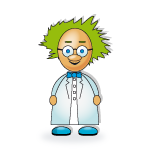
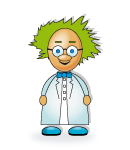
Finalized illustrations. Linked breadcrumbs.

Changed region(s): [[0.2154, 0.08, 0.8, 0.9067], [0.4308, 0.1867, 0.4923, 0.2133]]

diff --git a/public/stylesheets/echologic.css b/public/stylesheets/echologic.css
@@ -377,26 +377,23 @@ strong {
 
 /* Illustrations */
 .illustrationHolder {
+  clear:        both;
   margin:       25px auto 0px;
   height:       160px;
   padding:      0 0 5px;
-}
-
-.illustrationHolder ul {
-  padding:      0px;
-}
-
-.illustrationHolder li {
-  float:        left;
   text-align:   center;
-  list-style-type: none;
 }
 
-.illustrationHolder a {
-  border:       none;
+.illustration {
+  padding:      0px;
+  float:        left;
 }
 
-.illustrationHolder h2 {
+.threeItems .illustration {
+  padding:      0 15px;
+}
+
+.illustration h2 {
   font-size:    1.4em;
   font-weight:  bold;
   margin:       0px;
@@ -406,11 +403,15 @@ strong {
   top:          -10px;    
 }
 
-.illustrationHolder li:hover * {
+.illustration:hover * {
   cursor:       pointer;
 }
 
-.illustrationHolder li:hover h2 {
+.illustration img {
+  border:       none;
+}
+
+.illustration:hover h2 {
   border-bottom: 2px dotted #7ab031;
 }
 
@@ -451,7 +452,7 @@ ul, ol {
 h1, h2, h3, h4 {
   font-family:  "Lucida Sans",Arial,Helvetica,sans-serif;
   cursor:       default;
-  font-weight:  normal;  
+  font-weight:  normal !important;  
 }
 
 h1 {
@@ -479,3 +480,6 @@ h4 {
   padding:      0 0 0 2px;
 }
 
+.link {
+  cursor:       pointer;
+}

diff --git a/app/helpers/static_content_helper.rb b/app/helpers/static_content_helper.rb
@@ -60,24 +60,29 @@ module StaticContentHelper
     BOTTOM
   end
 
+  # Inserts the breadcrumb for the given main menu path and the actual sub menu
+  def insert_breadcrumb(link, sub_menu_title='.title')
+    main_menu_resource = 'static_content.' + link.split('/')[2] + '.title'
+    main_menu = "<h1 class='link'>" + t(main_menu_resource) + '</h1>'
+    concat link_to_remote(main_menu, {:url => link}, :href => link)
+    concat "<h4>#{t(sub_menu_title)}</h4>"
+  end
+
   # Inserts illustrations as a link for the given array of paths.
   def insert_illustrations(links)
-    concat "<div class='illustrationHolder'>"
-    concat   "<ul>"
+    concat "<div class='illustrationHolder" + (links.size==3 ? " threeItems" : '') + "'>"
     links.each do |link|
       parts = link.split('/')
       item = parts[2] + '_' + parts[3] 
       pic_resource = 'page/illustrations/' + item + '.png'
       text_resource = 'static_content.' + item + '.title' 
-      list_item = "<li>"
-      list_item += image_tag(pic_resource)
-      list_item += "<h2>#{t(text_resource)}</h2>"
-      list_item += "</li>"
-      concat link_to_remote(list_item, {:url => link}, :href => link)
+      illustration = "<div class='illustration'>"
+      illustration +=   image_tag(pic_resource)
+      illustration +=   "<h2>#{t(text_resource)}</h2>"
+      illustration += "</div>"
+      concat link_to_remote(illustration, {:url => link}, :href => link)
     end
-    concat   "</ul>"
     concat "</div>"
-    return
   end
   
   # Insert back and next buttons according to the given paths.
